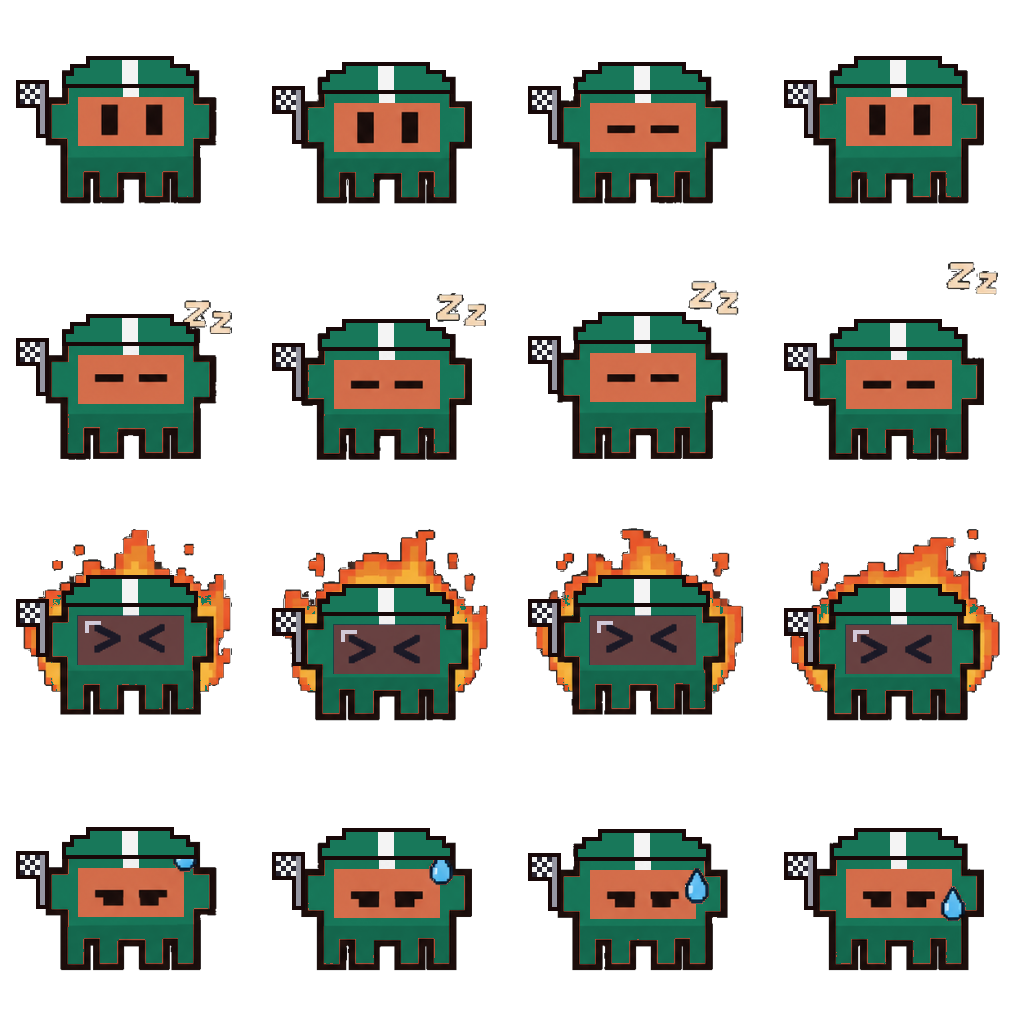
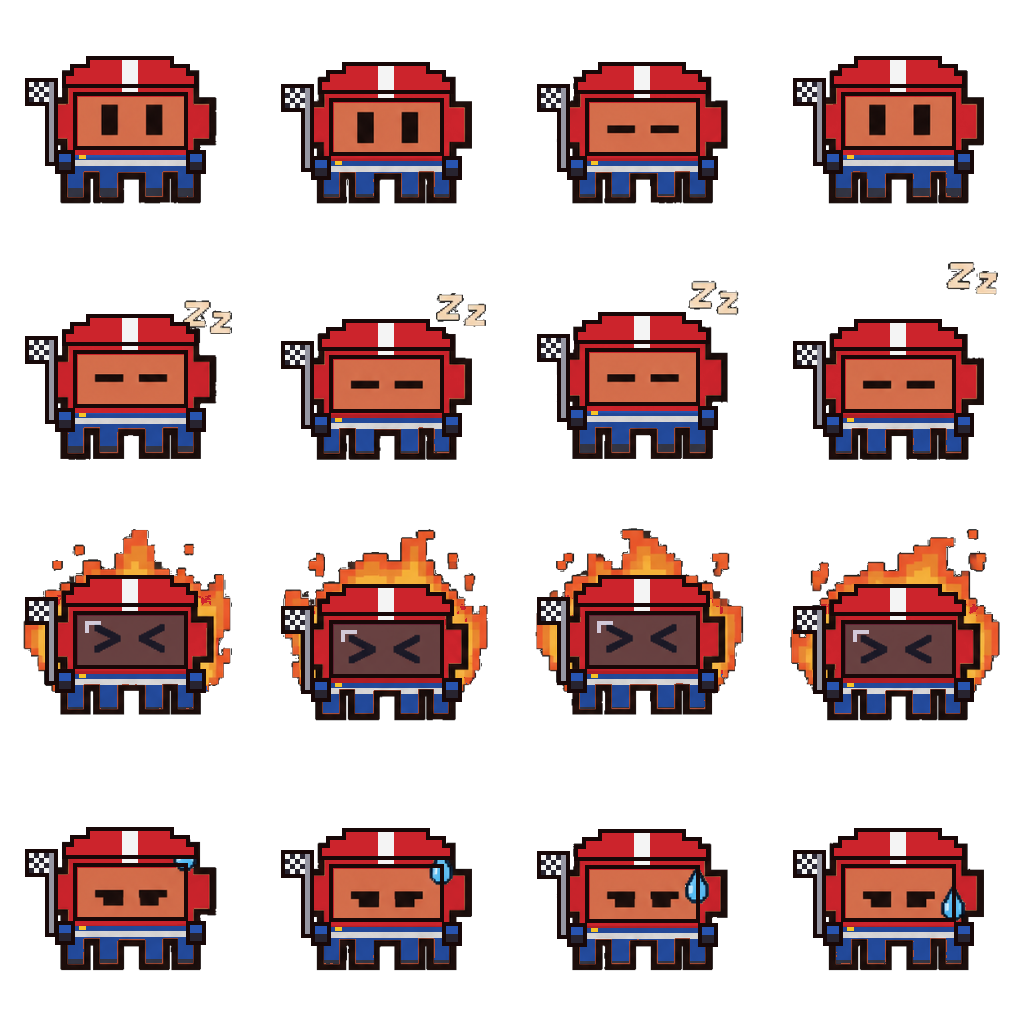
feat(pets): put the racing driver in a race car
Its working scene now starts from the getaway's drive instead of the desk:
the car repainted racing red, a checkered flag where the palm tree stood,
the helmet in place of the shades. The jacket gives way to blue overalls
with a collar, a zip, a stripe and a patch; standing, the overalls get
arms in gloves, boots and a chest stripe.

diff --git a/tools/pets/costumes.py b/tools/pets/costumes.py
@@ -43,9 +43,10 @@ PALETTE = {
     "y": (246, 196, 40),  # hard hat
     "Y": (255, 228, 112),
     "h": (206, 150, 24),
-    "e": (24, 120, 90),  # helmet
+    "e": (204, 36, 44),  # helmet
     "E": (244, 244, 244),
     "f": (150, 150, 162),  # flag pole
+    "u": (40, 84, 176),  # overalls
     "x": (96, 100, 128),  # sword grip
     "X": (52, 54, 76),
 }
@@ -237,14 +238,16 @@ def eye_slot(xs, ys, left, width, top):
     return (ys >= top + 0.15 * width) & (ys <= top + 0.55 * width) & (xs >= left + 0.07 * width) & (xs <= left + 0.93 * width)
 
 
-def dye(frame, a, kind, left, width, top, rgb, where):
-    """Recolour the body where `where(xs, ys)` holds, keeping its own shading."""
+def dye(frame, a, kind, left, width, top, rgb, where, wide=False):
+    """Recolour the body where `where(xs, ys)` holds, keeping its own shading.
+    `wide` reaches past the body's own box, to hands and arms wherever they are."""
     px = np.array(frame).astype(float)
     ys, xs = np.mgrid[0:FRAME, 0:FRAME]
     # the body and its ears only: not the flames beside it, nor the desk under the hands
     floor = top + (0.86 if kind == "working" else 1.0) * width
-    mask = body_mask(a, 32) & (xs > left - 19) & (xs < left + width + 19) & (ys >= top - 2) & (ys <= floor)
-    mask &= where(xs, ys)
+    mask = body_mask(a, 32) & where(xs, ys)
+    if not wide:
+        mask &= (xs > left - 19) & (xs < left + width + 19) & (ys >= top - 2) & (ys <= floor)
     lum = a[..., :3].astype(float).sum(-1) / (212 + 108 + 78)  # the original's, so dyes can overlap
     for c, v in enumerate(rgb):
         px[..., c] = np.where(mask, np.clip(v * lum, 0, 255), px[..., c])
@@ -367,20 +370,91 @@ def doctor(frame, a, kind, i, cell, cx, width, top):
     paste(frame, mirror, cx - mirror.width / 2 + 2 * sway(kind, i)[0], top + 0.15 * width - cell - mirror.height + 6)
 
 
+SUIT = (40, 84, 176)  # the overalls
+TRIM = (246, 244, 244)
+GLOVE = (58, 60, 76)
+PATCH = (246, 196, 40)
+ARM = ["uuu", "uuu", "jjj", "jjj"]
+
+
+def repaint(frame, pick, paint):
+    """Recolour the pixels `pick(h, s, v, xs, ys)` chooses with `paint(h, s, v)`, in HSV."""
+    hsv = np.array(frame.convert("RGB").convert("HSV")).astype(float) / 255
+    h, s, v = hsv[..., 0], hsv[..., 1], hsv[..., 2]
+    ys, xs = np.mgrid[0:FRAME, 0:FRAME]
+    chosen = pick(h, s, v, xs, ys)
+    nh, ns, nv = paint(h, s, v)
+    out = np.stack([np.where(chosen, n, o) for n, o in ((nh, h), (ns, s), (nv, v))], -1)
+    rgb = Image.fromarray((out * 255).astype("uint8"), "HSV").convert("RGB")
+    rgb.putalpha(frame.getchannel("A"))
+    frame.paste(rgb)
+
+
+def race_car(frame, a):
+    """The getaway's drive, as a race: no shades, no palm tree, the car in racing red."""
+    px = np.array(frame)
+    ys, xs = np.mgrid[0:FRAME, 0:FRAME]
+    # the shades above the head, and the palm tree behind the car
+    gone = ((ys < 77) & (xs < 166)) | ((xs >= 184) & (ys < 143)) | ((xs >= 166) & (ys < 78))
+    # and the fronds that reach the ear: whatever is not the body or its outline there
+    near = np.array(Image.fromarray((body_mask(a, 32) * 255).astype("uint8")).filter(ImageFilter.MaxFilter(11))) > 0
+    gone |= (xs >= 164) & (ys < 110) & ~near
+    px[gone] = 0
+    frame.paste(Image.fromarray(px, "RGBA"))
+    pink = lambda h, s, v, xs, ys: (h > 0.8) & (s > 0.12)
+    # the jacket, every pink of it, becomes the blue overalls; the car's paint goes red
+    # (under the head, and the sleeve raised beside it in the cheer; not the blush or the mouth)
+    jacket = lambda xs, ys: (xs >= 36) & (xs <= 172) & (ys <= 171) & ((ys >= 137) & (xs >= 52) | (ys >= 100) & (ys < 148) & (xs < 66))
+    repaint(frame, lambda h, s, v, xs, ys: pink(h, s, v, xs, ys) & jacket(xs, ys), lambda h, s, v: (h * 0 + 0.613, s * 0 + 0.77, v * 0.72))
+    repaint(frame, lambda h, s, v, xs, ys: pink(h, s, v, xs, ys) & ~jacket(xs, ys) & (s >= 0.4), lambda h, s, v: (h * 0 + 0.99, s, v))
+    # its chest, over the jacket's lapels and chain: a collar, a zip, a stripe and a patch
+    d = ImageDraw.Draw(frame)
+    d.rectangle([98, 143, 132, 167], fill=SUIT + (255,))
+    d.rectangle([98, 154, 132, 158], fill=TRIM + (255,))
+    d.rectangle([100, 143, 130, 147], fill=HELMET + (255,))
+    d.rectangle([114, 148, 116, 167], fill=OUTLINE)
+    d.rectangle([103, 161, 109, 165], fill=PATCH + (255,))
+    # the stripe down its side, from cyan to white
+    repaint(frame, lambda h, s, v, xs, ys: (abs(h - 0.5) < 0.08) & (s > 0.5) & (ys > 170), lambda h, s, v: (h, s * 0, v * 0 + 0.96))
+
+
 def driver(frame, a, kind, i, cell, cx, width, top):
     left = cx - width / 2
-    # the helmet and the suit, open at the eyes, with a stripe over the top
-    dye(frame, a, kind, left, width, top, HELMET, lambda xs, ys: ~eye_slot(xs, ys, left, width, top))
-    dye(frame, a, kind, left, width, top, (244, 244, 244), lambda xs, ys: (abs(xs - cx) < cell) & (ys < top + 0.15 * width))
+    if kind == "working":
+        race_car(frame, a)
+        pole = grid_layer([row[::-1] for row in FLAG[:4]] + ["f"] * 15, 5)
+        behind(frame, lambda back: paste(back, pole, 204, 52))
+        d = ImageDraw.Draw(frame)  # the head's top, where the shades sat
+        d.rectangle([left + 2, top - 2, left + width - 2, top + 0.15 * width], fill=HELMET + (255,))
+    # the helmet, open at the eyes, with a stripe over the top
+    ys, xs = np.mgrid[0:FRAME, 0:FRAME]
+    head = (ys < top + 0.62 * width) & (xs > left - 19) & (xs < left + width + 19)
+    if kind == "working" and i == 6:  # the cheer: the hand raised by the ear is a glove
+        head &= ~((xs < left + 2) & (ys > top + 27))
+    dye(frame, a, kind, left, width, top, HELMET, lambda xs, ys: head & ~eye_slot(xs, ys, left, width, top))
+    if kind == "working":
+        # at the wheel, what shows of the body are the hands
+        dye(frame, a, kind, left, width, top, GLOVE, lambda xs, ys: ~head, wide=True)
+    else:
+        # the overalls: a white stripe across the chest, boots, and arms in gloves at the sides
+        dye(frame, a, kind, left, width, top, SUIT, lambda xs, ys: ~head)
+        dye(frame, a, kind, left, width, top, TRIM, lambda xs, ys: (ys > top + 0.66 * width) & (ys < top + 0.71 * width))
+        dye(frame, a, kind, left, width, top, GLOVE, lambda xs, ys: ys > top + 0.89 * width)
+        arm = grid_layer(ARM, 4)
+        for x in (left - arm.width + 2, left + width - 2):
+            paste(frame, arm, x, top + 0.62 * width)
+        d = ImageDraw.Draw(frame)
+        d.rectangle([left + 10, top + 0.63 * width, left + 16, top + 0.66 * width - 1], fill=PATCH + (255,))
+    d = ImageDraw.Draw(frame)
+    d.rectangle([cx - cell, top - 2, cx + cell - 1, top + 0.15 * width - 4], fill=TRIM + (255,))
+    x0, y0, x1, y1 = (int(v) for v in (left + 0.07 * width, top + 0.15 * width, left + 0.93 * width, top + 0.55 * width))
+    d.rectangle([x0 - 4, y0 - 4, x1 + 4, y1 + 4], outline=OUTLINE, width=4)
     dome = grid_layer(DOME, cell)
     paste(frame, dome, cx - dome.width / 2, top + 6 - dome.height)
-    flag = grid_layer(FLAG, 5)
     if kind == "moods":
-        paste(frame, flag, left - 24 - flag.width, top + 6)
-    else:
-        behind(frame, lambda back: paste(back, flag, DESK_PROP[0] - 4, DESK_PROP[1]))
+        flag = grid_layer(FLAG + ["....f"] * 6, 5)  # its pole down to the glove
+        paste(frame, flag, left - 15 - flag.width, top + 4)
     if row_of(kind, i) == "fire":  # visor down, with a glint
-        x0, y0, x1, y1 = (int(v) for v in (left + 0.07 * width, top + 0.15 * width, left + 0.93 * width, top + 0.55 * width))
         visor = Image.new("RGBA", frame.size, (0, 0, 0, 0))
         d = ImageDraw.Draw(visor)
         d.rectangle([x0, y0, x1, y1], fill=(28, 34, 58, 150))
@@ -388,6 +462,9 @@ def driver(frame, a, kind, i, cell, cx, width, top):
         d.rectangle([x0 + 8, y0 + 10, x0 + 11, y0 + 17], fill=(210, 226, 255, 200))
         frame.alpha_composite(visor)
 
+
+# a pet whose sheet starts from another pet's than the classic one: (file, head top)
+BASES = {("driver", "working"): ("getaway-working.png", 77)}
 
 PETS = {"ninja": ninja, "pirate": pirate, "chef": chef, "doctor": doctor, "engineer": engineer, "driver": driver}
 
@@ -403,6 +480,7 @@ def bbox(frames):
 def build(pet, draw):
     boxes = {}
     for kind, (name, cols, rows, cell, cx, width) in SHEETS.items():
+        name, fixed_top = BASES.get((pet, kind), (name, None))
         src = Image.open(ASSETS / name).convert("RGBA")
         out = Image.new("RGBA", src.size, (0, 0, 0, 0))
         frames = []
@@ -410,7 +488,7 @@ def build(pet, draw):
             x, y = (i % cols) * FRAME, (i // cols) * FRAME
             frame = src.crop((x, y, x + FRAME, y + FRAME))
             a = np.array(frame)
-            draw(frame, a, kind, i, cell, cx, width, head_top(a))
+            draw(frame, a, kind, i, cell, cx, width, fixed_top or head_top(a))
             out.paste(frame, (x, y))
             frames.append(frame)
         out.save(ASSETS / f"{pet}-{kind}.png", optimize=True)

diff --git a/native/src/components/skins.rs b/native/src/components/skins.rs
@@ -139,8 +139,9 @@ pub const SKINS: &[Skin] = &[
         pack: "everyday",
         working: include_bytes!("../../assets/driver-working.png"),
         moods: include_bytes!("../../assets/driver-moods.png"),
-        work_box: [0.043, 0.203, 0.969, 0.934],
-        fire_box: [0.062, 0.062, 0.906, 0.816],
+        // the race car and its flag
+        work_box: [0.031, 0.188, 0.973, 0.934],
+        fire_box: [0.086, 0.062, 0.906, 0.816],
         // the helmet stands with it; the flag hangs outside
         stand_box: [0.176, 0.219, 0.848, 0.797],
     },

diff --git a/docs/design/06-pets.md b/docs/design/06-pets.md
@@ -37,6 +37,6 @@ On a pack's days, one of its pets takes over ([ADR-009](../decisions/ADR-009-hol
 
 1. Generate both sheets from `native/assets/working-sheet.png` and `native/assets/moods-sheet.png` as the reference: the same frames, the same character size and position, on a flat background. The art is generated (Codex `gpt-6-astra`), and Clauddy stays square and blocky.
 2. Clear the background, resize to 1024 × 512 and 1024 × 1024, and measure the art's box in each row.
-   A simpler pet can instead be composited onto the classic sheets: `python3 tools/pets/costumes.py` draws those costumes (Ninja, Pirate, Chef, Doctor, Engineer, Racing driver) on every frame, writes their sheets and prints their boxes.
+   A simpler pet can instead be composited onto the classic sheets: `python3 tools/pets/costumes.py` draws those costumes (Ninja, Pirate, Chef, Doctor, Engineer, Racing driver) on every frame, writes their sheets and prints their boxes. A costume can start from another pet's sheet than the classic one: the Racing driver's desk scene is the Getaway's drive, repainted as a race car.
 3. Add the sheets to `native/assets/` and a `Skin` to `SKINS`, with its pack. A new pack goes in `PACKS`, with `days` if it takes over on holidays.
 4. Add snapshot cases named after the pet (`<id>-expanded`, `<id>-compact-fire`, ...) in `native/src/screens/snapshots.rs`, and check the PNGs: a test checks that every sheet has its grid's size.
